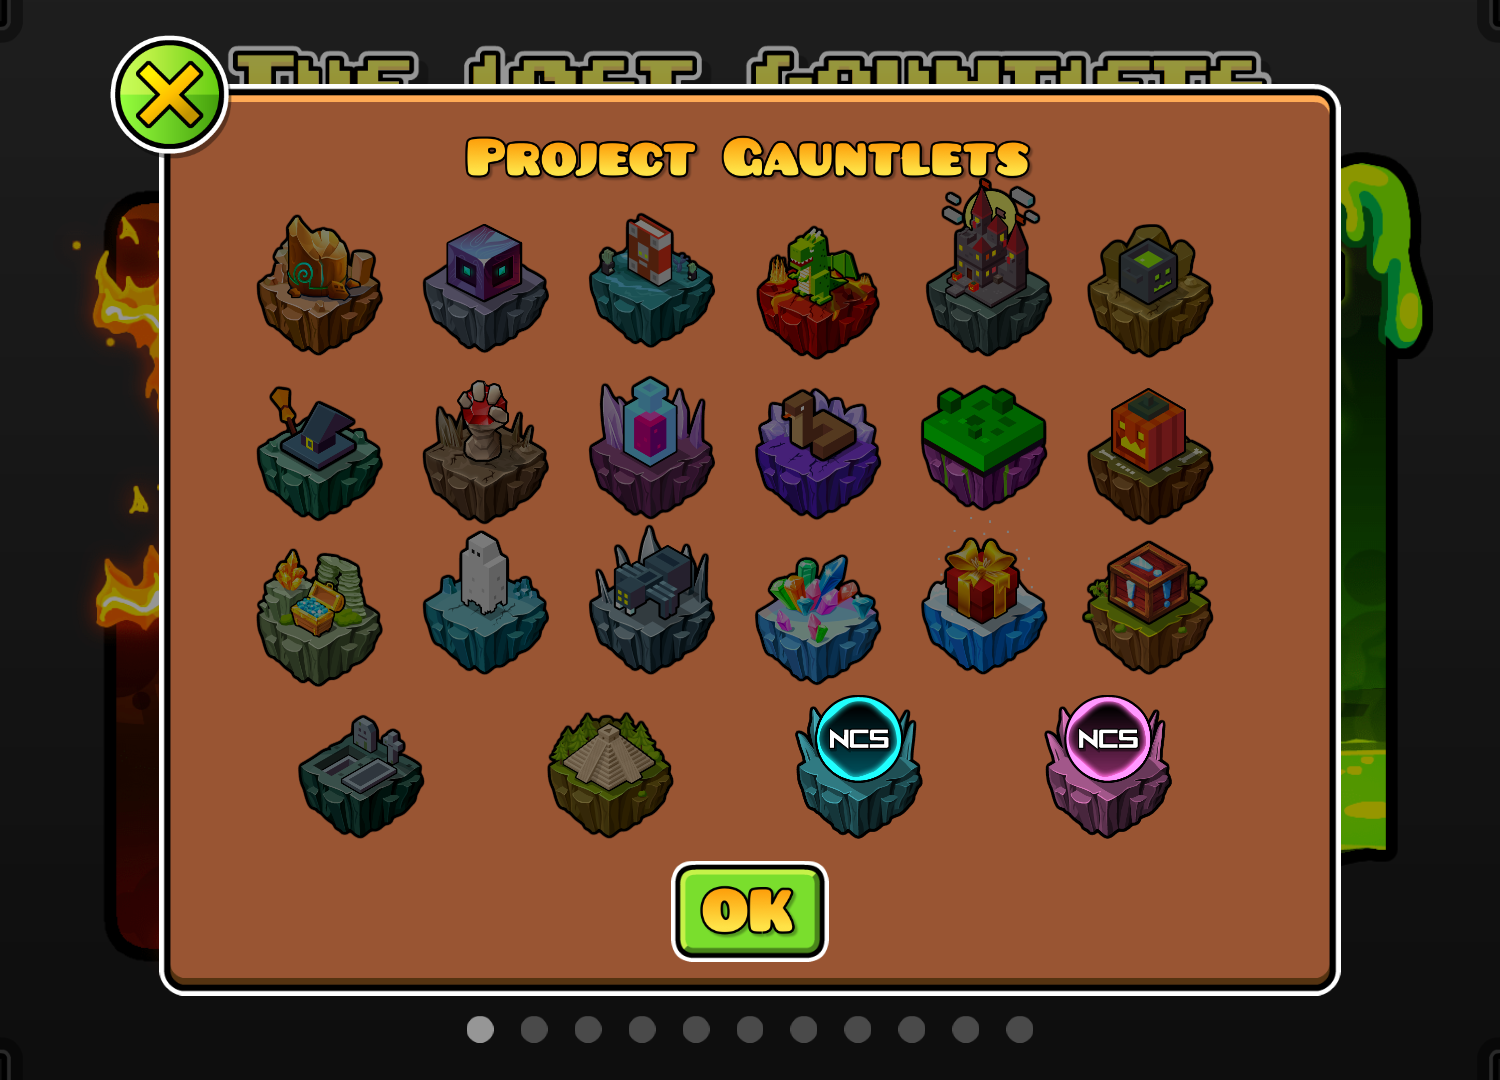
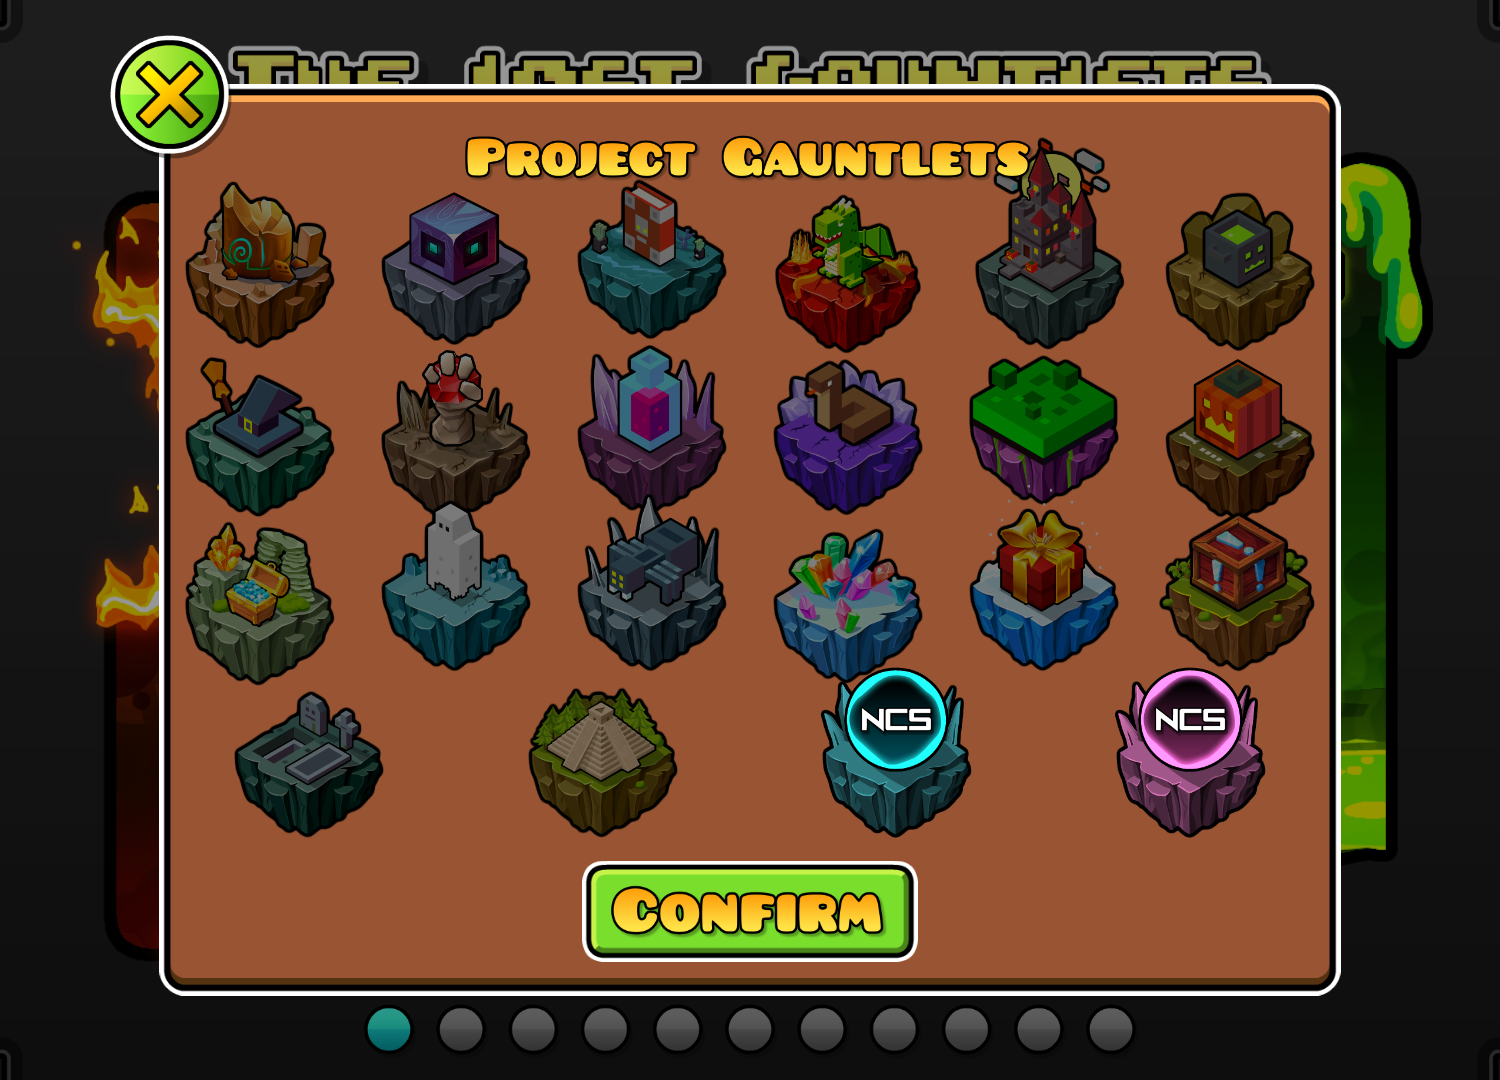
finally 1.0.1

Changed region(s): [[0.1227, 0.1222, 0.8893, 0.9778]]

diff --git a/src/main.cpp b/src/main.cpp
@@ -2,10 +2,6 @@
 
 #include <Geode/modify/GauntletSelectLayer.hpp>
 class $modify(GPGauntletSelectLayer, GauntletSelectLayer) {
-    struct Fields {
-        CCMenuItemSpriteExtra* m_timeButton;
-    };
-
     bool init(int idk) {
         if (!GauntletSelectLayer::init(idk)) return false;
 
@@ -13,50 +9,47 @@ class $modify(GPGauntletSelectLayer, GauntletSelectLayer) {
         auto timeMenu = CCMenu::create();
         timeMenu->setPosition(winSize.width - 30.0f, winSize.height - 30.0f);
         timeMenu->setID("time-menu"_spr);
+        timeMenu->setVisible(GameLevelManager::sharedState()->m_savedGauntlets->count() > 0);
         addChild(timeMenu, 2);
 
-        auto f = m_fields.self();
-        f->m_timeButton = CCMenuItemExt::createSpriteExtraWithFrameName("GJ_timeIcon_001.png", 1.0f, [this](auto) {
-            GPGauntletsPopup::create([this] {
+        auto timeButton = CCMenuItemExt::createSpriteExtraWithFrameName("GJ_timeIcon_001.png", 1.0f, [this](CCMenuItemSpriteExtra* sender) {
+            GPGauntletsPopup::create([this, sender] {
                 if (m_scrollLayer) {
                     m_scrollLayer->removeFromParent();
                     m_scrollLayer = nullptr;
                 }
                 m_leftButton->setVisible(false);
                 m_rightButton->setVisible(false);
+                sender->setVisible(false);
                 auto bottomRightMenu = getChildByID("bottom-right-menu");
                 if (bottomRightMenu) for (auto child : CCArrayExt<CCNode*>(bottomRightMenu->getChildren())) {
-                    if (child != m_refreshButton) child->removeFromParent();
+                    if (child != m_refreshButton) child->removeFromParent(); // gdutils
                 }
                 setupGauntlets();
                 m_leftButton->setVisible(true);
                 m_rightButton->setVisible(true);
+                sender->setVisible(true);
             })->show();
         });
-        f->m_timeButton->setID("time-button"_spr);
-        timeMenu->addChild(f->m_timeButton);
+        timeButton->setID("time-button"_spr);
+        timeMenu->addChild(timeButton);
 
         return true;
     }
 
     void setupGauntlets() {
-        auto f = m_fields.self();
-        if (f->m_timeButton) f->m_timeButton->setEnabled(false);
-
-        auto pageNav = getChildByID("dasshu.gauntletredesign/page-navigation");
-        if (pageNav) pageNav->removeFromParent();
-
         auto glm = GameLevelManager::sharedState();
-        std::vector<bool> projectedIDs;
+        auto projectedIDs = Mod::get()->getSavedValue("projected-ids", std::vector<bool>(NUM_GAUNTLETS, false));
+        projectedIDs.resize(NUM_GAUNTLETS, false);
         auto newSavedGauntlets = CCDictionary::create();
         newSavedGauntlets->retain();
         std::vector<bool> gauntletsAdded;
-        for (int i = 1; i < 53; i++) {
-            auto id = std::to_string(i);
-            if (!glm->m_savedGauntlets->objectForKey(id) && GPGauntletsPopup::projectedIDs[i - 1]) {
+        for (int i = 0; i < NUM_GAUNTLETS; i++) {
+            auto id = std::to_string(i + 1);
+            if (!glm->m_savedGauntlets->objectForKey(id) && projectedIDs[i]) {
                 gauntletsAdded.push_back(true);
                 auto gauntlet = GJMapPack::create();
-                gauntlet->m_packID = i;
+                gauntlet->m_packID = i + 1;
                 gauntlet->m_levels = CCArray::create();
                 gauntlet->m_levels->retain();
                 glm->m_savedGauntlets->setObject(gauntlet, id);
@@ -70,16 +63,15 @@ class $modify(GPGauntletSelectLayer, GauntletSelectLayer) {
 
         GauntletSelectLayer::setupGauntlets();
 
-        for (int i = 0; i < 52; i++) {
+        for (int i = 0; i < NUM_GAUNTLETS; i++) {
             if (gauntletsAdded[i]) glm->m_savedGauntlets->removeObjectForKey(std::to_string(i + 1));
         }
 
-        if (f->m_timeButton) f->m_timeButton->setEnabled(true);
+        if (auto timeMenu = getChildByID("time-menu"_spr)) timeMenu->setVisible(glm->m_savedGauntlets->count() > 0);
     }
 
     void onPlay(CCObject* sender) {
-        auto glm = GameLevelManager::sharedState();
-        if (glm->m_savedGauntlets->objectForKey(std::to_string(sender->getTag())))
+        if (GameLevelManager::sharedState()->m_savedGauntlets->objectForKey(std::to_string(sender->getTag())))
             GauntletSelectLayer::onPlay(sender);
     }
 };

diff --git a/src/GPGauntletsPopup.cpp b/src/GPGauntletsPopup.cpp
@@ -78,44 +78,36 @@ GPGauntletsPopup* GPGauntletsPopup::create(GauntletCallback callback) {
 bool GPGauntletsPopup::setup(GauntletCallback callback) {
     setTitle("Project Gauntlets");
 
-    m_gauntletButtons = CCArray::create();
-    m_gauntletButtons->retain();
+    m_enabledGauntlets = Mod::get()->getSavedValue("projected-ids", std::vector<bool>(NUM_GAUNTLETS, false));
+    m_enabledGauntlets.resize(NUM_GAUNTLETS, false);
 
-    auto glm = GameLevelManager::sharedState();
-    auto savedGauntlets = glm->m_savedGauntlets;
-    auto table = TableNode::create(6, (57 - savedGauntlets->count()) / 6);
-    table->setColumnLayout(ColumnLayout::create()->setAxisReverse(true));
+    auto savedGauntlets = GameLevelManager::sharedState()->m_savedGauntlets;
+    auto table = TableNode::create(6, (NUM_GAUNTLETS + 5 - savedGauntlets->count()) / 6);
+    table->setColumnLayout(ColumnLayout::create()->setGap(7.5f)->setAxisReverse(true));
     table->setRowLayout(RowLayout::create()->setAxisAlignment(AxisAlignment::Even));
     table->setRowHeight(60.0f);
     table->setContentSize({ 350.0f, 190.0f });
     table->setPosition({ 175.0f, 140.0f });
     m_mainLayer->addChild(table);
 
-    for (int i = 1; i < 53; i++) {
-        if (!savedGauntlets->objectForKey(std::to_string(i))) {
-            auto gauntletSprite = GauntletSprite::create((GauntletType)i, false);
-            gauntletSprite->setContentSize({ 75.0f, 75.0f });
+    for (int i = 0; i < NUM_GAUNTLETS; i++) {
+        if (!savedGauntlets->objectForKey(std::to_string(i + 1))) {
+            auto gauntletSprite = GauntletSprite::create((GauntletType)(i + 1), false);
             gauntletSprite->setScale(0.7f);
             auto innerSprite = static_cast<CCSprite*>(gauntletSprite->getChildren()->objectAtIndex(0));
-            innerSprite->setColor(projectedIDs[i - 1] ? ccColor3B { 255, 255, 255 } : ccColor3B { 125, 125, 125 });
-            auto gauntletButton = CCMenuItemExt::createSpriteExtra(gauntletSprite, [this, i, innerSprite](CCMenuItemSpriteExtra* sender) {
-                if (innerSprite->getColor() == ccColor3B { 125, 125, 125 }) innerSprite->setColor({ 255, 255, 255 });
-                else innerSprite->setColor({ 125, 125, 125 });
+            innerSprite->setColor(m_enabledGauntlets[i] ? ccColor3B { 255, 255, 255 } : ccColor3B { 125, 125, 125 });
+            auto gauntletButton = CCMenuItemExt::createSpriteExtra(gauntletSprite, [this, i, innerSprite](auto) {
+                m_enabledGauntlets[i] = !m_enabledGauntlets[i];
+                innerSprite->setColor(m_enabledGauntlets[i] ? ccColor3B { 255, 255, 255 } : ccColor3B { 125, 125, 125 });
             });
-            gauntletButton->setTag(i);
-            m_gauntletButtons->addObject(gauntletButton);
             table->addButton(gauntletButton);
         }
     }
 
     table->updateAllLayouts();
 
-    auto confirmButton = CCMenuItemExt::createSpriteExtra(ButtonSprite::create("OK", "goldFont.fnt", "GJ_button_01.png", 0.8f), [this, callback](auto) {
-        for (CCMenuItemSpriteExtra* button : CCArrayExt<CCMenuItemSpriteExtra*>(m_gauntletButtons)) {
-            projectedIDs[button->getTag() - 1] = static_cast<CCSprite*>(
-                static_cast<GauntletSprite*>(button->getNormalImage())->getChildren()->objectAtIndex(0)
-            )->getColor() == ccColor3B { 255, 255, 255 };
-        }
+    auto confirmButton = CCMenuItemExt::createSpriteExtra(ButtonSprite::create("Confirm", "goldFont.fnt", "GJ_button_01.png", 0.8f), [this, callback](auto) {
+        Mod::get()->setSavedValue("projected-ids", m_enabledGauntlets);
         callback();
         onClose(nullptr);
     });
@@ -123,8 +115,4 @@ bool GPGauntletsPopup::setup(GauntletCallback callback) {
     m_buttonMenu->addChild(confirmButton);
 
     return true;
-}
-
-GPGauntletsPopup::~GPGauntletsPopup() {
-    CC_SAFE_RELEASE(m_gauntletButtons);
 }

diff --git a/src/GPGauntletsPopup.hpp b/src/GPGauntletsPopup.hpp
@@ -2,7 +2,9 @@
 
 using namespace geode::prelude;
 
-typedef MiniFunction<void()> GauntletCallback;
+#define NUM_GAUNTLETS 52
+
+typedef std::function<void()> GauntletCallback;
 
 class TableNode : public CCNode {
 protected:
@@ -28,18 +30,9 @@ public:
 
 class GPGauntletsPopup : public Popup<GauntletCallback> {
 protected:
-    CCArray* m_gauntletButtons;
+    std::vector<bool> m_enabledGauntlets;
 
     bool setup(GauntletCallback) override;
 public:
-    inline static std::vector<bool> projectedIDs = {
-        false, false, false, false, false, false, false, false, false, false, false, false, false,
-        false, false, false, false, false, false, false, false, false, false, false, false, false,
-        false, false, false, false, false, false, false, false, false, false, false, false, false,
-        false, false, false, false, false, false, false, false, false, false, false, false, false
-    };
-
     static GPGauntletsPopup* create(GauntletCallback);
-
-    ~GPGauntletsPopup() override;
 };

diff --git a/about.md b/about.md
@@ -2,7 +2,7 @@
 A mod that shows the placement of future gauntlets.
 
 ## Features
-- A button in the gauntlet selection screen that allows you to select gauntlets to project.
+- A button in the top right corner of the gauntlet selection screen, which opens a popup for selecting which gauntlets to project
 
 ## Gallery
 ![Projection Popup](hiimjustin000.gauntlet_projection/projection-popup.png?width=300)

diff --git a/README.md b/README.md
@@ -2,7 +2,7 @@
 A mod that shows the placement of future gauntlets.
 
 ## Features
-- A button in the gauntlet selection screen that allows you to select gauntlets to project.
+- A button in the top right corner of the gauntlet selection screen, which opens a popup for selecting which gauntlets to project
 
 ## Gallery
 ![Projection Popup](./resources/projection-popup.png)

diff --git a/changelog.md b/changelog.md
@@ -1,6 +1,7 @@
 # Gauntlet Projection Changelog
 ## v1.0.1 (2024-09-26)
-- Fixed an incompatibility with the mod "Gauntlet Touchup" by jaydasshu
+- Added saving and loading of selected gauntlets
+- Tweaked the layout of the projection popup
 
 ## v1.0.0 (2024-09-26)
 - Initial release
